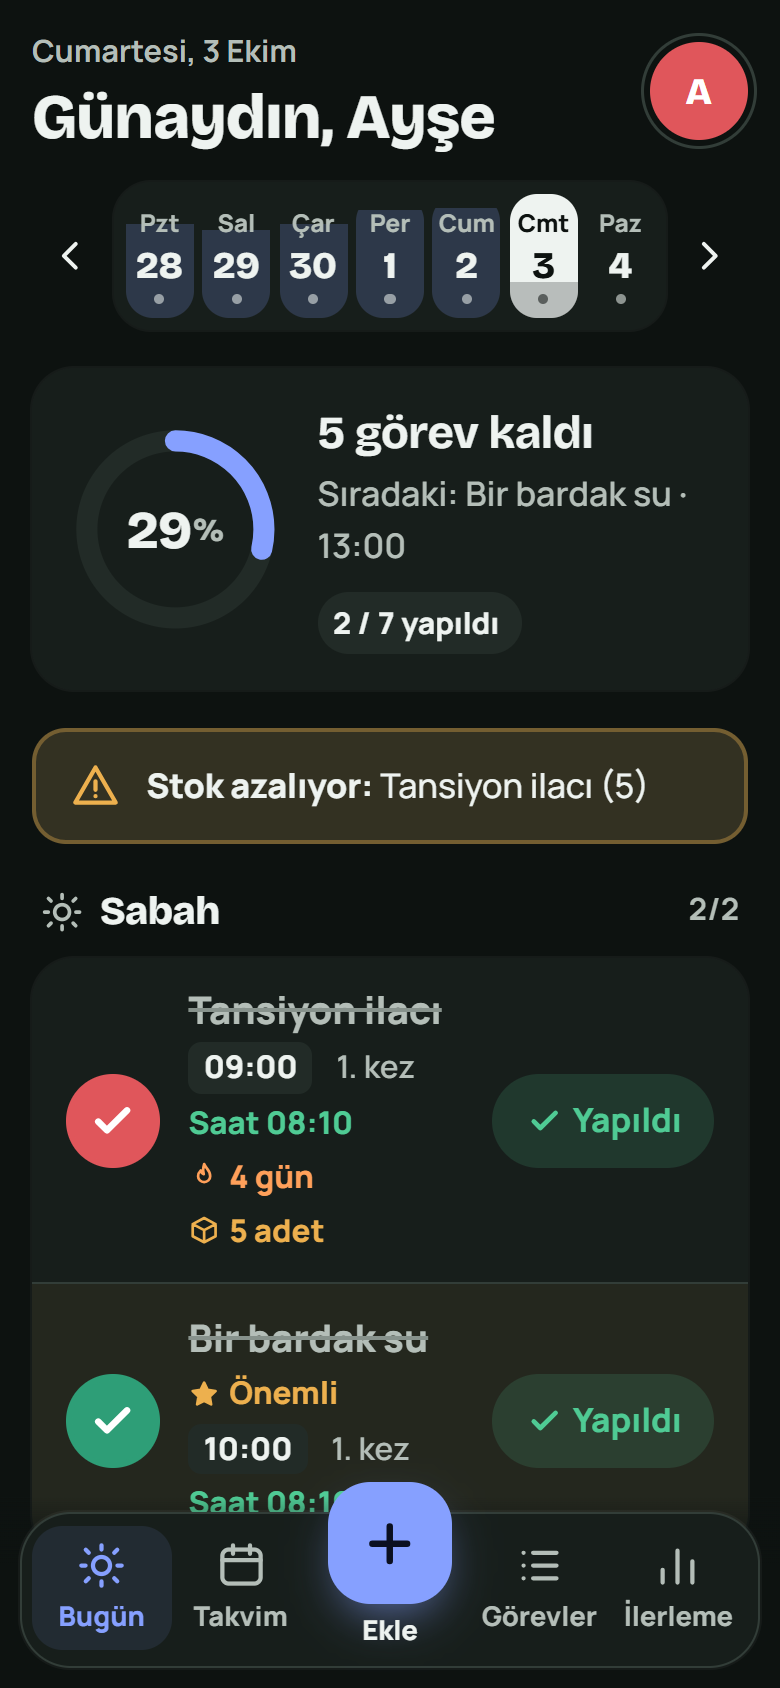
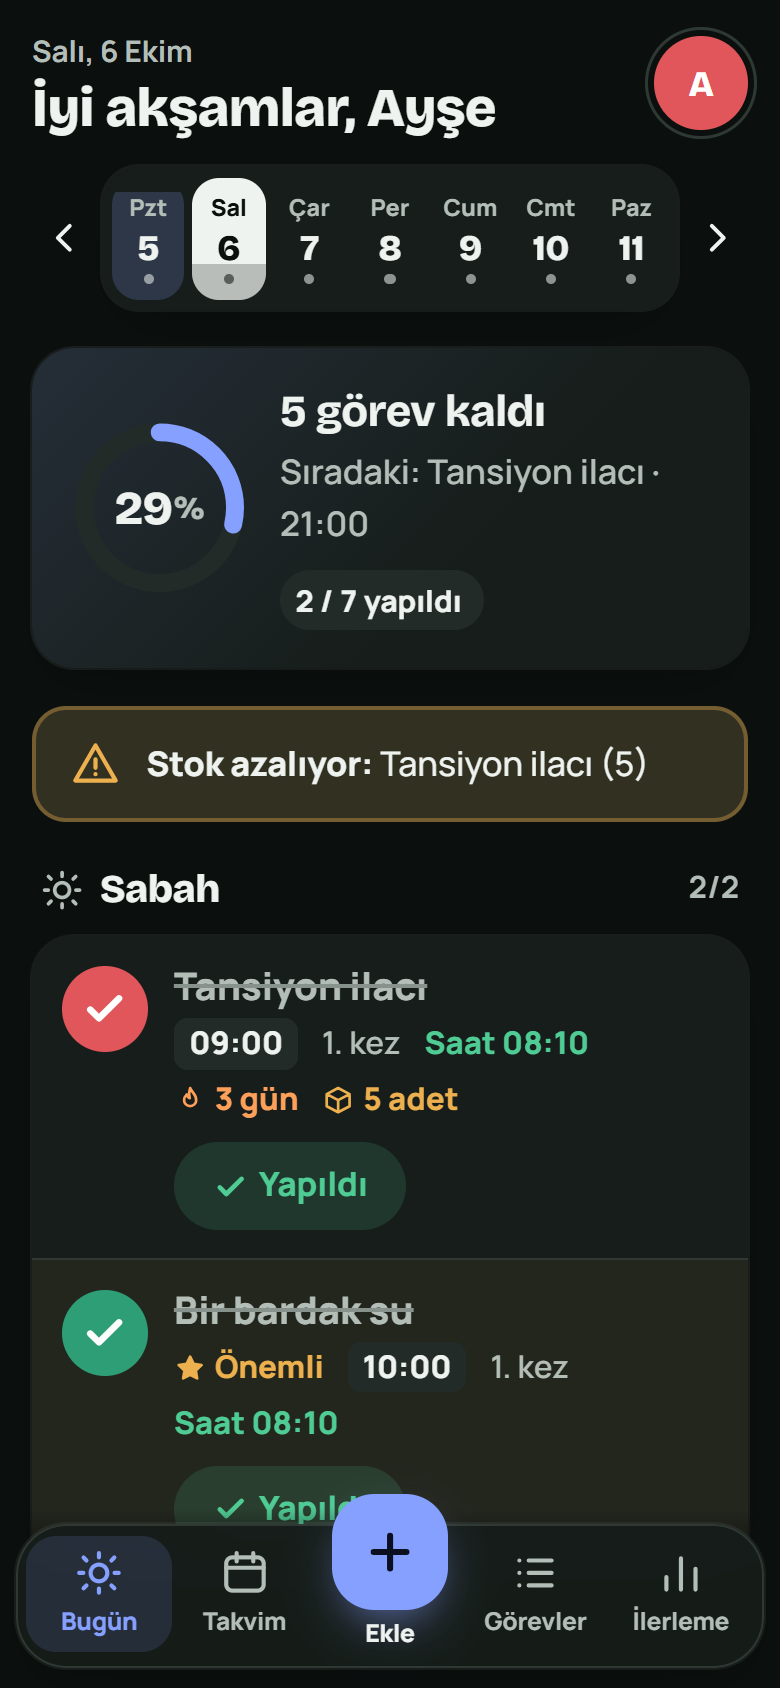
Fix mobile overflow and polish the design
- Tab bar, week strip, calendar and day picker scale with the screen width,
  so they fit even on 320px phones with the largest text size
- On phones the Done button moves under the task so titles use the full width
- Grids no longer stretch on long content (settings overflowed on small screens)
- Smaller header, lighter progress card, frosted tab bar, clearer dark cards
- New e2e checks at 320px with the largest text; refreshed screenshots

diff --git a/docs/index.html b/docs/index.html
@@ -37,22 +37,22 @@ img{max-width:100%}
 }
 @media (prefers-color-scheme: dark){
   :root:not([data-theme="light"]){
-    --bg:#0D1210; --surface:#171E1B; --surface-2:#222B27; --line:#323D38;
+    --bg:#0B100E; --surface:#161D1A; --surface-2:#222B27; --line:#2E3934;
     --ink:#EEF3F0; --muted:#B4BEB8; --faint:#87928C;
     --accent:var(--acc-d); --on-accent:#0B1020;
     --ok:#4FCB94; --warn:#EDB04E; --danger:#FF8073; --flame:#FFA05A;
     --overlay:rgb(0 0 0 / .62);
-    --shadow:0 0 0 1px rgb(255 255 255 / .04);
+    --shadow:0 0 0 1px rgb(255 255 255 / .06), 0 10px 26px -16px rgb(0 0 0 / .7);
     color-scheme:dark;
   }
 }
 :root[data-theme="dark"]{
-  --bg:#0D1210; --surface:#171E1B; --surface-2:#222B27; --line:#323D38;
+  --bg:#0B100E; --surface:#161D1A; --surface-2:#222B27; --line:#2E3934;
   --ink:#EEF3F0; --muted:#B4BEB8; --faint:#87928C;
   --accent:var(--acc-d); --on-accent:#0B1020;
   --ok:#4FCB94; --warn:#EDB04E; --danger:#FF8073; --flame:#FFA05A;
   --overlay:rgb(0 0 0 / .62);
-  --shadow:0 0 0 1px rgb(255 255 255 / .04);
+  --shadow:0 0 0 1px rgb(255 255 255 / .06), 0 10px 26px -16px rgb(0 0 0 / .7);
   color-scheme:dark;
 }
 *,*::before,*::after{box-sizing:border-box}
@@ -446,6 +446,72 @@ select.inp{appearance:none;background-image:linear-gradient(45deg,transparent 50
 .toast button{pointer-events:auto;color:var(--bg);font-weight:800;padding:.35rem .7rem;border-radius:.6rem;border:2px solid currentColor;min-height:2.4rem}
 @keyframes tin{from{opacity:0;transform:translateY(12px)}}
 #confetti{position:fixed;inset:0;pointer-events:none;z-index:70;width:100%;height:100%}
+
+/* ---------- small phones and large text ----------
+   The text-size setting scales every rem. Rows with a fixed number of items (tab bar,
+   week strip, calendar, day picker) are capped by the screen width instead, so they
+   always fit; lists and text keep growing with the setting. */
+.stack,.sheet-b,.auth-in,.grp,.box,.sec,.panel{grid-template-columns:minmax(0,1fr)}
+.top{padding:.8rem 16px .55rem}
+.top h1{font-size:min(1.6rem,7.2vw);line-height:1.12}
+.top .eyebrow{font-size:min(.9rem,3.8vw)}
+.top .avatar{width:min(2.9rem,12vw);height:min(2.9rem,12vw);font-size:min(1.1rem,4.6vw)}
+
+.tabbar{padding-left:8px;padding-right:8px}
+.tabbar-in{grid-template-columns:repeat(5,minmax(0,1fr));padding:.3rem .25rem .4rem;background:color-mix(in srgb,var(--surface) 90%,transparent);-webkit-backdrop-filter:blur(14px);backdrop-filter:blur(14px)}
+.tab,.fab-wrap{font-size:min(.78rem,3.15vw);letter-spacing:-.01em;min-width:0;white-space:nowrap}
+.tab{overflow:hidden;min-height:min(3.4rem,14vw);padding:.35rem 0}
+.tab svg{width:min(1.5rem,6.4vw);height:min(1.5rem,6.4vw)}
+.tab[aria-current="page"]{background:color-mix(in srgb,var(--accent) 14%,transparent)}
+.fab{width:min(3.6rem,15vw);height:min(3.6rem,15vw);margin-top:max(-1.6rem,-6.5vw)}
+.fab svg{width:min(1.75rem,7.2vw);height:min(1.75rem,7.2vw)}
+
+.week{grid-template-columns:min(2.2rem,8vw) minmax(0,1fr) min(2.2rem,8vw);gap:min(.2rem,1vw)}
+.week-nav{width:min(2.2rem,8vw)}
+.week-days{gap:min(.25rem,1vw);padding:min(.35rem,1.4vw)}
+.wd .n{font-size:min(1.1rem,4.6vw)}
+.wd .d{font-size:min(.72rem,3vw)}
+
+.hero{grid-template-columns:auto minmax(0,1fr);gap:min(1.1rem,4vw);background:linear-gradient(135deg,color-mix(in srgb,var(--accent) 13%,var(--surface)),var(--surface) 62%)}
+.ring{width:min(5.6rem,23vw);height:min(5.6rem,23vw)}
+.ring .val{font-size:min(1.4rem,6vw)}
+.hero h2{font-size:min(1.3rem,5.8vw)}
+.hero p{display:-webkit-box;-webkit-line-clamp:3;-webkit-box-orient:vertical;overflow:hidden;overflow-wrap:anywhere}
+
+.item{grid-template-columns:auto minmax(0,1fr) auto;gap:.75rem;padding:.8rem .9rem}
+.item-title{overflow-wrap:break-word;flex-wrap:wrap;row-gap:.15rem}
+.check{width:min(2.75rem,11vw);height:min(2.75rem,11vw)}
+/* On phones the "Yaptım" button sits under the task, so the title gets the full width. */
+@media (max-width:479px){
+  .item:has(>.do-btn){grid-template-columns:auto minmax(0,1fr);row-gap:.55rem;align-items:start}
+  .item:has(>.do-btn)>.check{align-self:start;margin-top:.1rem}
+  .item>.do-btn{grid-column:2;justify-self:start;min-height:2.6rem;padding:.45rem 1.1rem}
+}
+.alert>div{min-width:0;overflow-wrap:anywhere}
+.tpl{flex:none;white-space:nowrap}
+.seg button{min-width:0;overflow:hidden;text-overflow:ellipsis}
+.fs-seg button{white-space:normal;font-size:min(.95rem,3.6vw)}
+.prof{flex-wrap:wrap}
+.prof .avatar{width:min(3.5rem,15vw);height:min(3.5rem,15vw);font-size:min(1.4rem,6vw)}
+.prof>div{min-width:min(9rem,45vw)!important}
+.prof h3{overflow-wrap:anywhere}
+.seg button{font-size:min(.95rem,3.9vw);padding-inline:.3rem}
+.daypick{gap:min(.3rem,1vw)}
+.daypick button{min-width:0;padding-inline:0;font-size:min(.85rem,3.4vw)}
+.cal{padding:min(.9rem,3vw)}
+.cal-grid{gap:min(.25rem,1vw)}
+.cal-dow{font-size:min(.78rem,3.2vw)}
+.cd{font-size:min(1.02rem,4.3vw);border-radius:min(.75rem,2.6vw)}
+.cal-h h2{font-size:min(1.35rem,5.8vw)}
+.tile .v{font-size:min(2rem,8.5vw)}
+.bar-x{font-size:min(.7rem,2.6vw)}
+.rate-name{white-space:normal;display:-webkit-box;-webkit-line-clamp:2;-webkit-box-orient:vertical;line-height:1.3}
+.d-stat .v{font-size:min(1.6rem,6.5vw)}
+.icons{grid-template-columns:repeat(6,minmax(0,1fr))}
+.actions{grid-template-columns:repeat(auto-fit,minmax(min(4.6rem,26vw),1fr))}
+.sheet-h h2{font-size:min(1.4rem,6vw)}
+.title-inp{font-size:min(1.45rem,6.4vw)}
+.code-box{font-size:min(1.4rem,6vw)}
 
 @media (min-width:640px){ .tiles{grid-template-columns:repeat(4,1fr)} }
 @media (prefers-reduced-motion: reduce){

diff --git a/src/app.html b/src/app.html
@@ -18,22 +18,22 @@
 }
 @media (prefers-color-scheme: dark){
   :root:not([data-theme="light"]){
-    --bg:#0D1210; --surface:#171E1B; --surface-2:#222B27; --line:#323D38;
+    --bg:#0B100E; --surface:#161D1A; --surface-2:#222B27; --line:#2E3934;
     --ink:#EEF3F0; --muted:#B4BEB8; --faint:#87928C;
     --accent:var(--acc-d); --on-accent:#0B1020;
     --ok:#4FCB94; --warn:#EDB04E; --danger:#FF8073; --flame:#FFA05A;
     --overlay:rgb(0 0 0 / .62);
-    --shadow:0 0 0 1px rgb(255 255 255 / .04);
+    --shadow:0 0 0 1px rgb(255 255 255 / .06), 0 10px 26px -16px rgb(0 0 0 / .7);
     color-scheme:dark;
   }
 }
 :root[data-theme="dark"]{
-  --bg:#0D1210; --surface:#171E1B; --surface-2:#222B27; --line:#323D38;
+  --bg:#0B100E; --surface:#161D1A; --surface-2:#222B27; --line:#2E3934;
   --ink:#EEF3F0; --muted:#B4BEB8; --faint:#87928C;
   --accent:var(--acc-d); --on-accent:#0B1020;
   --ok:#4FCB94; --warn:#EDB04E; --danger:#FF8073; --flame:#FFA05A;
   --overlay:rgb(0 0 0 / .62);
-  --shadow:0 0 0 1px rgb(255 255 255 / .04);
+  --shadow:0 0 0 1px rgb(255 255 255 / .06), 0 10px 26px -16px rgb(0 0 0 / .7);
   color-scheme:dark;
 }
 *,*::before,*::after{box-sizing:border-box}
@@ -427,6 +427,72 @@ select.inp{appearance:none;background-image:linear-gradient(45deg,transparent 50
 .toast button{pointer-events:auto;color:var(--bg);font-weight:800;padding:.35rem .7rem;border-radius:.6rem;border:2px solid currentColor;min-height:2.4rem}
 @keyframes tin{from{opacity:0;transform:translateY(12px)}}
 #confetti{position:fixed;inset:0;pointer-events:none;z-index:70;width:100%;height:100%}
+
+/* ---------- small phones and large text ----------
+   The text-size setting scales every rem. Rows with a fixed number of items (tab bar,
+   week strip, calendar, day picker) are capped by the screen width instead, so they
+   always fit; lists and text keep growing with the setting. */
+.stack,.sheet-b,.auth-in,.grp,.box,.sec,.panel{grid-template-columns:minmax(0,1fr)}
+.top{padding:.8rem 16px .55rem}
+.top h1{font-size:min(1.6rem,7.2vw);line-height:1.12}
+.top .eyebrow{font-size:min(.9rem,3.8vw)}
+.top .avatar{width:min(2.9rem,12vw);height:min(2.9rem,12vw);font-size:min(1.1rem,4.6vw)}
+
+.tabbar{padding-left:8px;padding-right:8px}
+.tabbar-in{grid-template-columns:repeat(5,minmax(0,1fr));padding:.3rem .25rem .4rem;background:color-mix(in srgb,var(--surface) 90%,transparent);-webkit-backdrop-filter:blur(14px);backdrop-filter:blur(14px)}
+.tab,.fab-wrap{font-size:min(.78rem,3.15vw);letter-spacing:-.01em;min-width:0;white-space:nowrap}
+.tab{overflow:hidden;min-height:min(3.4rem,14vw);padding:.35rem 0}
+.tab svg{width:min(1.5rem,6.4vw);height:min(1.5rem,6.4vw)}
+.tab[aria-current="page"]{background:color-mix(in srgb,var(--accent) 14%,transparent)}
+.fab{width:min(3.6rem,15vw);height:min(3.6rem,15vw);margin-top:max(-1.6rem,-6.5vw)}
+.fab svg{width:min(1.75rem,7.2vw);height:min(1.75rem,7.2vw)}
+
+.week{grid-template-columns:min(2.2rem,8vw) minmax(0,1fr) min(2.2rem,8vw);gap:min(.2rem,1vw)}
+.week-nav{width:min(2.2rem,8vw)}
+.week-days{gap:min(.25rem,1vw);padding:min(.35rem,1.4vw)}
+.wd .n{font-size:min(1.1rem,4.6vw)}
+.wd .d{font-size:min(.72rem,3vw)}
+
+.hero{grid-template-columns:auto minmax(0,1fr);gap:min(1.1rem,4vw);background:linear-gradient(135deg,color-mix(in srgb,var(--accent) 13%,var(--surface)),var(--surface) 62%)}
+.ring{width:min(5.6rem,23vw);height:min(5.6rem,23vw)}
+.ring .val{font-size:min(1.4rem,6vw)}
+.hero h2{font-size:min(1.3rem,5.8vw)}
+.hero p{display:-webkit-box;-webkit-line-clamp:3;-webkit-box-orient:vertical;overflow:hidden;overflow-wrap:anywhere}
+
+.item{grid-template-columns:auto minmax(0,1fr) auto;gap:.75rem;padding:.8rem .9rem}
+.item-title{overflow-wrap:break-word;flex-wrap:wrap;row-gap:.15rem}
+.check{width:min(2.75rem,11vw);height:min(2.75rem,11vw)}
+/* On phones the "Yaptım" button sits under the task, so the title gets the full width. */
+@media (max-width:479px){
+  .item:has(>.do-btn){grid-template-columns:auto minmax(0,1fr);row-gap:.55rem;align-items:start}
+  .item:has(>.do-btn)>.check{align-self:start;margin-top:.1rem}
+  .item>.do-btn{grid-column:2;justify-self:start;min-height:2.6rem;padding:.45rem 1.1rem}
+}
+.alert>div{min-width:0;overflow-wrap:anywhere}
+.tpl{flex:none;white-space:nowrap}
+.seg button{min-width:0;overflow:hidden;text-overflow:ellipsis}
+.fs-seg button{white-space:normal;font-size:min(.95rem,3.6vw)}
+.prof{flex-wrap:wrap}
+.prof .avatar{width:min(3.5rem,15vw);height:min(3.5rem,15vw);font-size:min(1.4rem,6vw)}
+.prof>div{min-width:min(9rem,45vw)!important}
+.prof h3{overflow-wrap:anywhere}
+.seg button{font-size:min(.95rem,3.9vw);padding-inline:.3rem}
+.daypick{gap:min(.3rem,1vw)}
+.daypick button{min-width:0;padding-inline:0;font-size:min(.85rem,3.4vw)}
+.cal{padding:min(.9rem,3vw)}
+.cal-grid{gap:min(.25rem,1vw)}
+.cal-dow{font-size:min(.78rem,3.2vw)}
+.cd{font-size:min(1.02rem,4.3vw);border-radius:min(.75rem,2.6vw)}
+.cal-h h2{font-size:min(1.35rem,5.8vw)}
+.tile .v{font-size:min(2rem,8.5vw)}
+.bar-x{font-size:min(.7rem,2.6vw)}
+.rate-name{white-space:normal;display:-webkit-box;-webkit-line-clamp:2;-webkit-box-orient:vertical;line-height:1.3}
+.d-stat .v{font-size:min(1.6rem,6.5vw)}
+.icons{grid-template-columns:repeat(6,minmax(0,1fr))}
+.actions{grid-template-columns:repeat(auto-fit,minmax(min(4.6rem,26vw),1fr))}
+.sheet-h h2{font-size:min(1.4rem,6vw)}
+.title-inp{font-size:min(1.45rem,6.4vw)}
+.code-box{font-size:min(1.4rem,6vw)}
 
 @media (min-width:640px){ .tiles{grid-template-columns:repeat(4,1fr)} }
 @media (prefers-reduced-motion: reduce){

diff --git a/tests/e2e.js b/tests/e2e.js
@@ -99,6 +99,17 @@ const check = (name, cond, extra = '') => results.push({ ok: !!cond, line: `${co
       const overflow = await run(() => [...document.querySelectorAll('#view *')].some(e => e.getBoundingClientRect().right > innerWidth + 1 && !e.closest('.chips') && !e.closest('.heat')));
       check(`no sideways overflow on ${v}`, !overflow);
     }
+    // Smallest common phone width with the largest text size: nothing may stick out,
+    // including the tab bar.
+    await page.setViewport({ width: 320, height: 640, deviceScaleFactor: 2, isMobile: true, hasTouch: true });
+    await run(() => { S.data.settings.fontSize = 'cokbuyuk'; applyTheme(); render(); });
+    for (const v of ['today', 'calendar', 'tasks', 'stats']) {
+      await tap(`.tab[data-v=${v}]`); await sleep(300);
+      const out = await run(() => [...document.querySelectorAll('#view *, .tabbar *')].filter(e => { const r = e.getBoundingClientRect(); return r.width && (r.right > innerWidth + 1 || r.left < -1) && !e.closest('.chips') && !e.closest('.heat'); }).length);
+      check(`fits 320px with the largest text on ${v}`, out === 0, out ? `${out} elements` : '');
+    }
+    await run(() => { S.data.settings.fontSize = 'normal'; applyTheme(); render(); });
+    await page.setViewport({ width: 390, height: 844, deviceScaleFactor: 2, isMobile: true, hasTouch: true });
     await tap('.tab[data-v=tasks]'); await sleep(200);
     await page.type('#t-search', 'anti'); await sleep(200);
     check('search filters the list', (await page.$$('#t-list .item')).length === 1);

diff --git a/docs/sw.js b/docs/sw.js
@@ -1,5 +1,5 @@
 // Ritim service worker — keeps the app usable offline. Generated by scripts/build.js.
-const CACHE = 'ritim-bf054887b8';
+const CACHE = 'ritim-1227f00969';
 const CORE = ['./', './index.html', './manifest.webmanifest', './icons/icon-192.png', './icons/icon-512.png'];
 
 self.addEventListener('install', e => {
